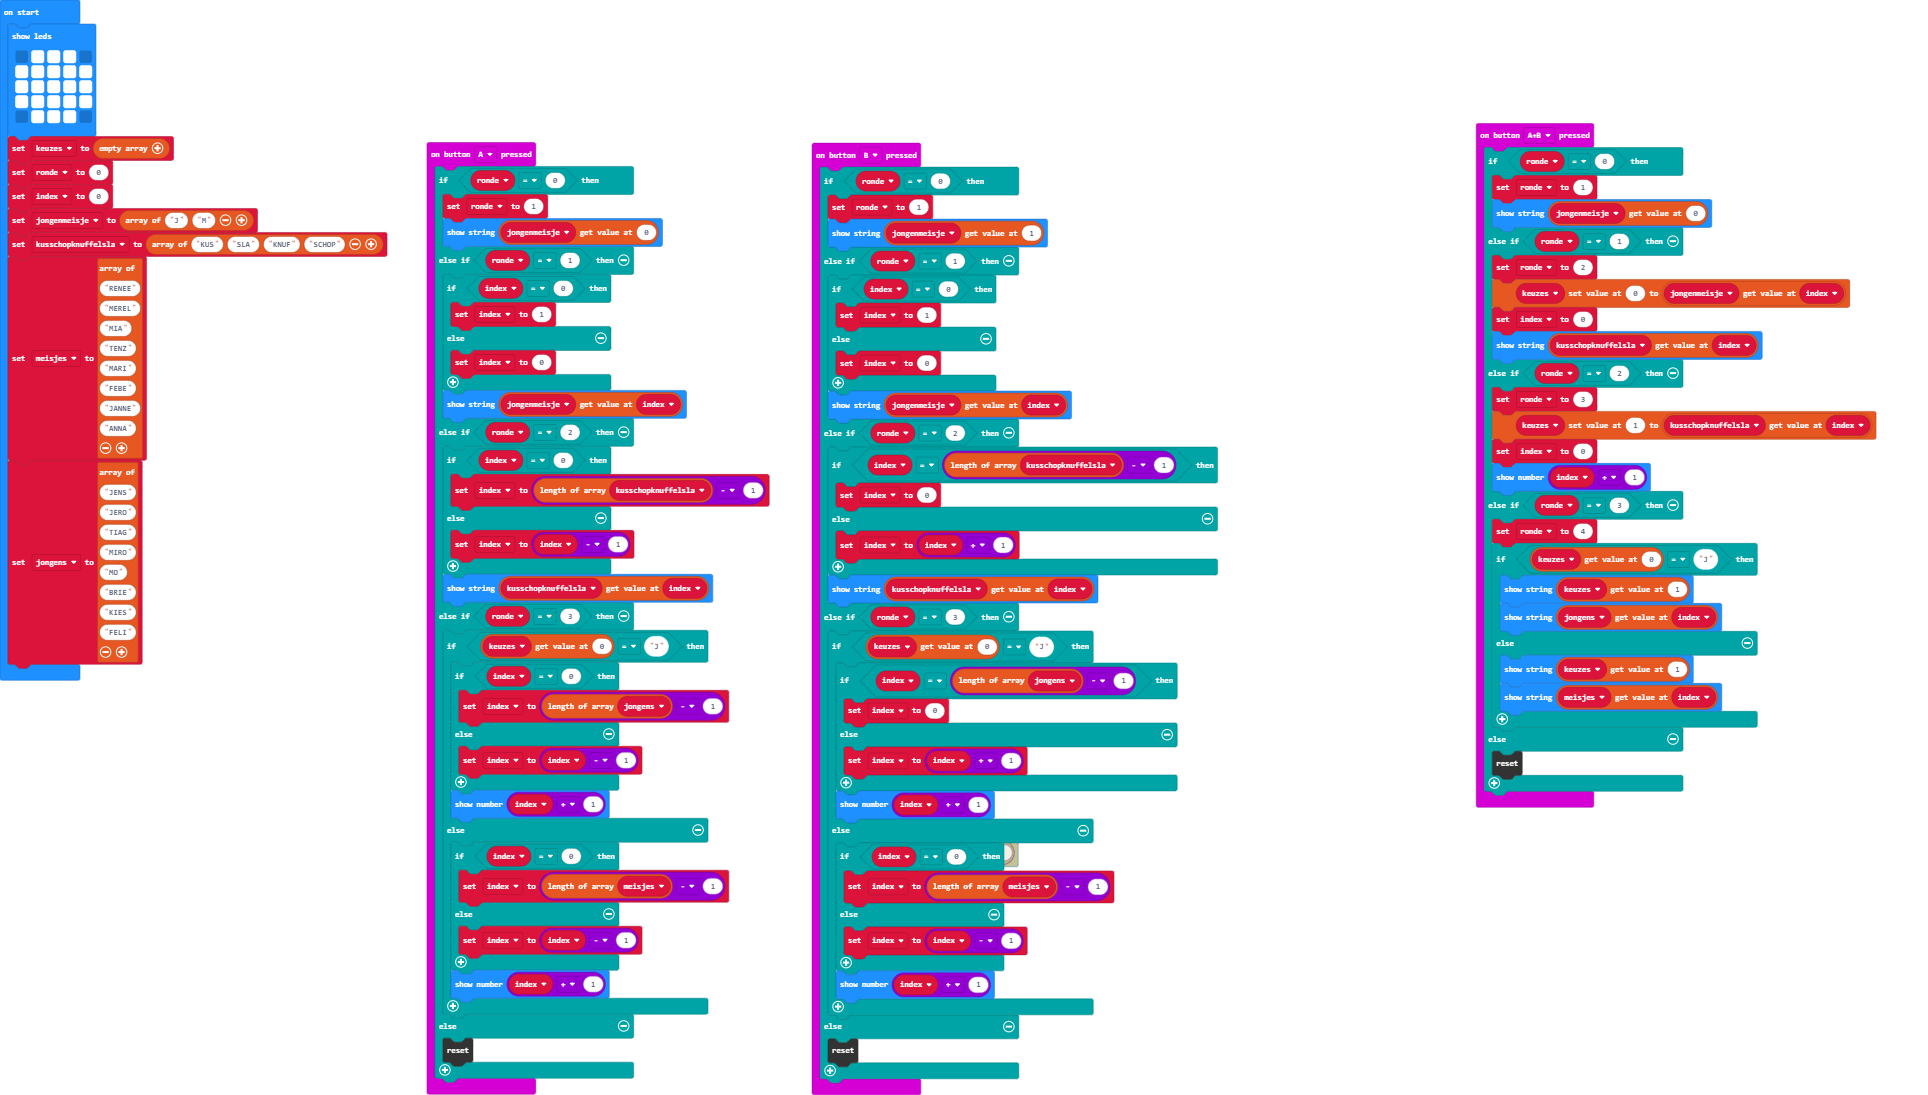
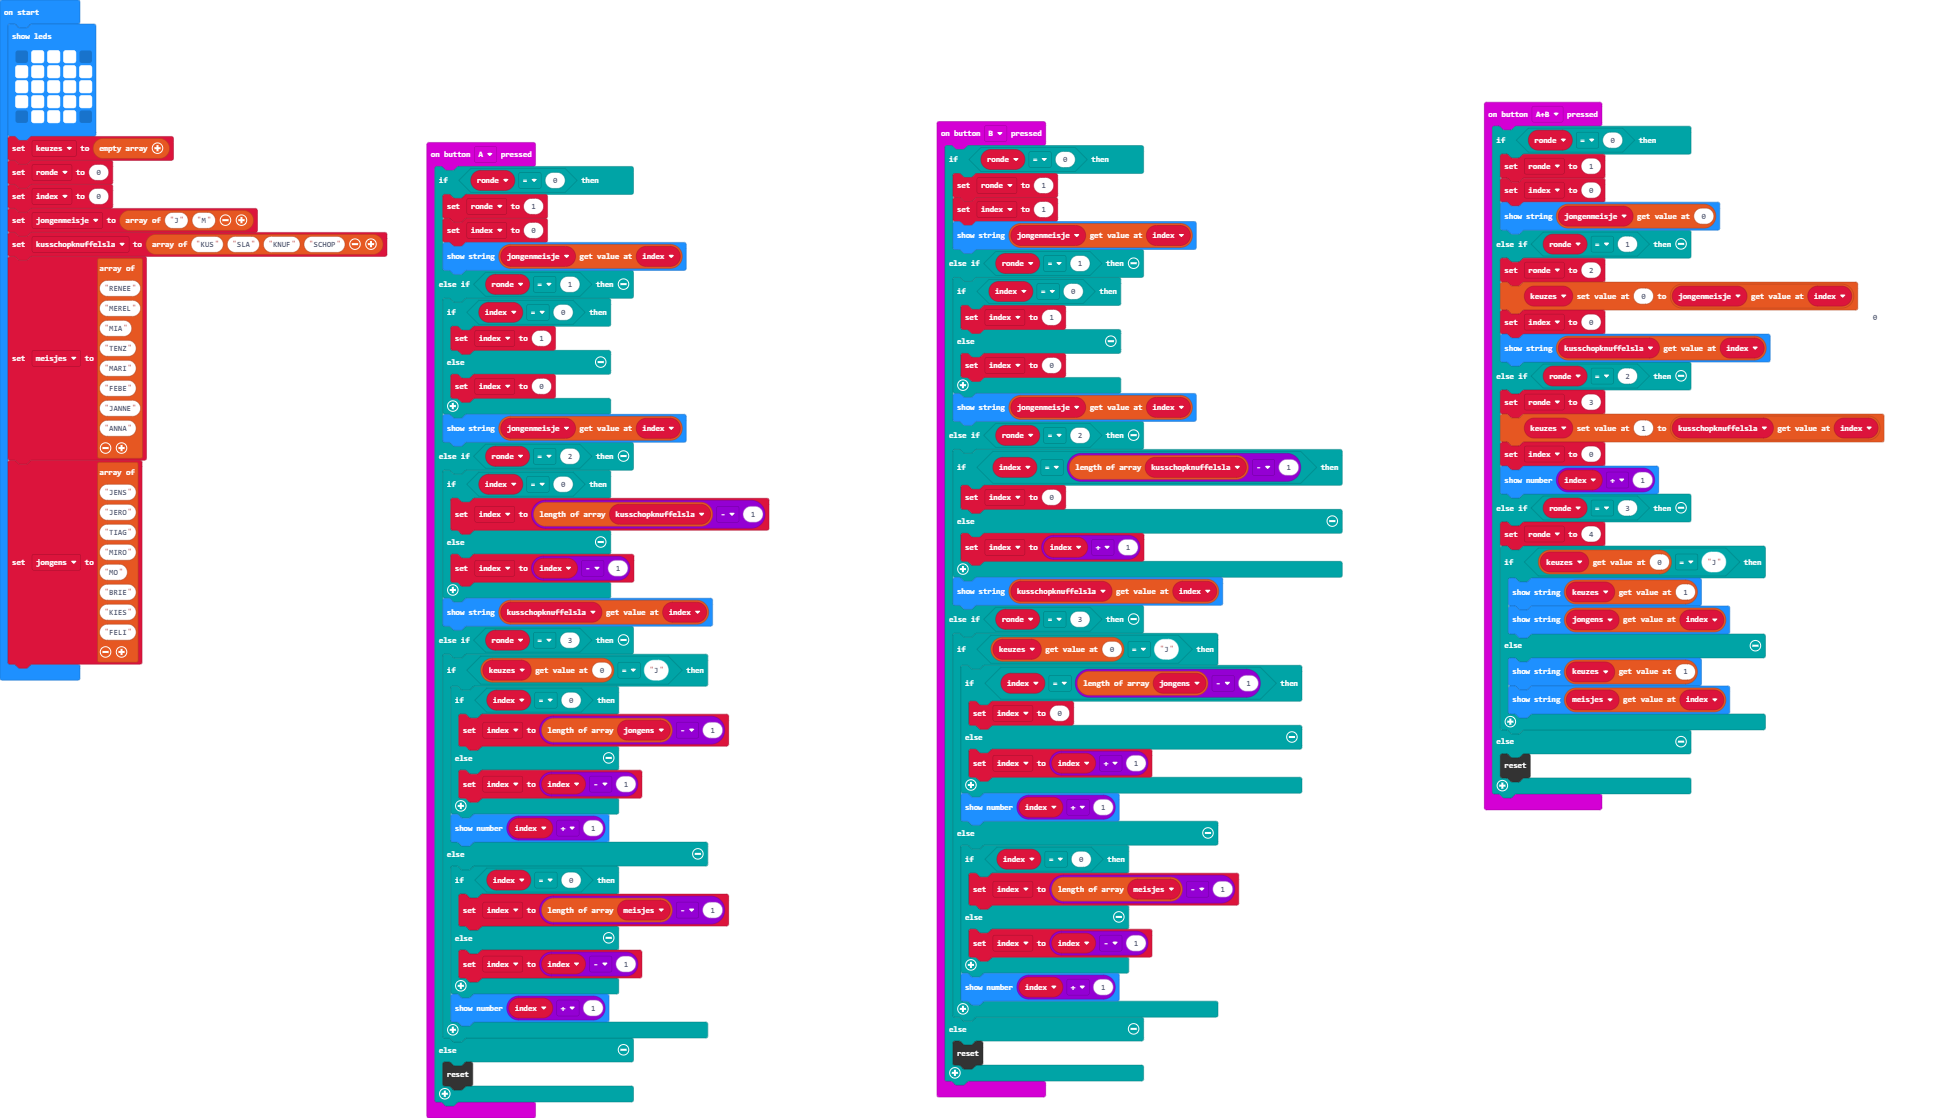
foutje gevonden

Changed region(s): [[0.0, 0.0311, 0.7158, 1.0], [0.7469, 0.0932, 0.9959, 0.7452]]

diff --git a/main.ts b/main.ts
@@ -1,7 +1,8 @@
 input.onButtonPressed(Button.A, function () {
     if (ronde == 0) {
         ronde = 1
-        basic.showString("" + (jongenmeisje[0]))
+        index = 0
+        basic.showString("" + (jongenmeisje[index]))
     } else if (ronde == 1) {
         if (index == 0) {
             index = 1
@@ -39,6 +40,7 @@ input.onButtonPressed(Button.A, function () {
 input.onButtonPressed(Button.AB, function () {
     if (ronde == 0) {
         ronde = 1
+        index = 0
         basic.showString("" + (jongenmeisje[0]))
     } else if (ronde == 1) {
         ronde = 2
@@ -66,7 +68,8 @@ input.onButtonPressed(Button.AB, function () {
 input.onButtonPressed(Button.B, function () {
     if (ronde == 0) {
         ronde = 1
-        basic.showString("" + (jongenmeisje[1]))
+        index = 1
+        basic.showString("" + (jongenmeisje[index]))
     } else if (ronde == 1) {
         if (index == 0) {
             index = 1
